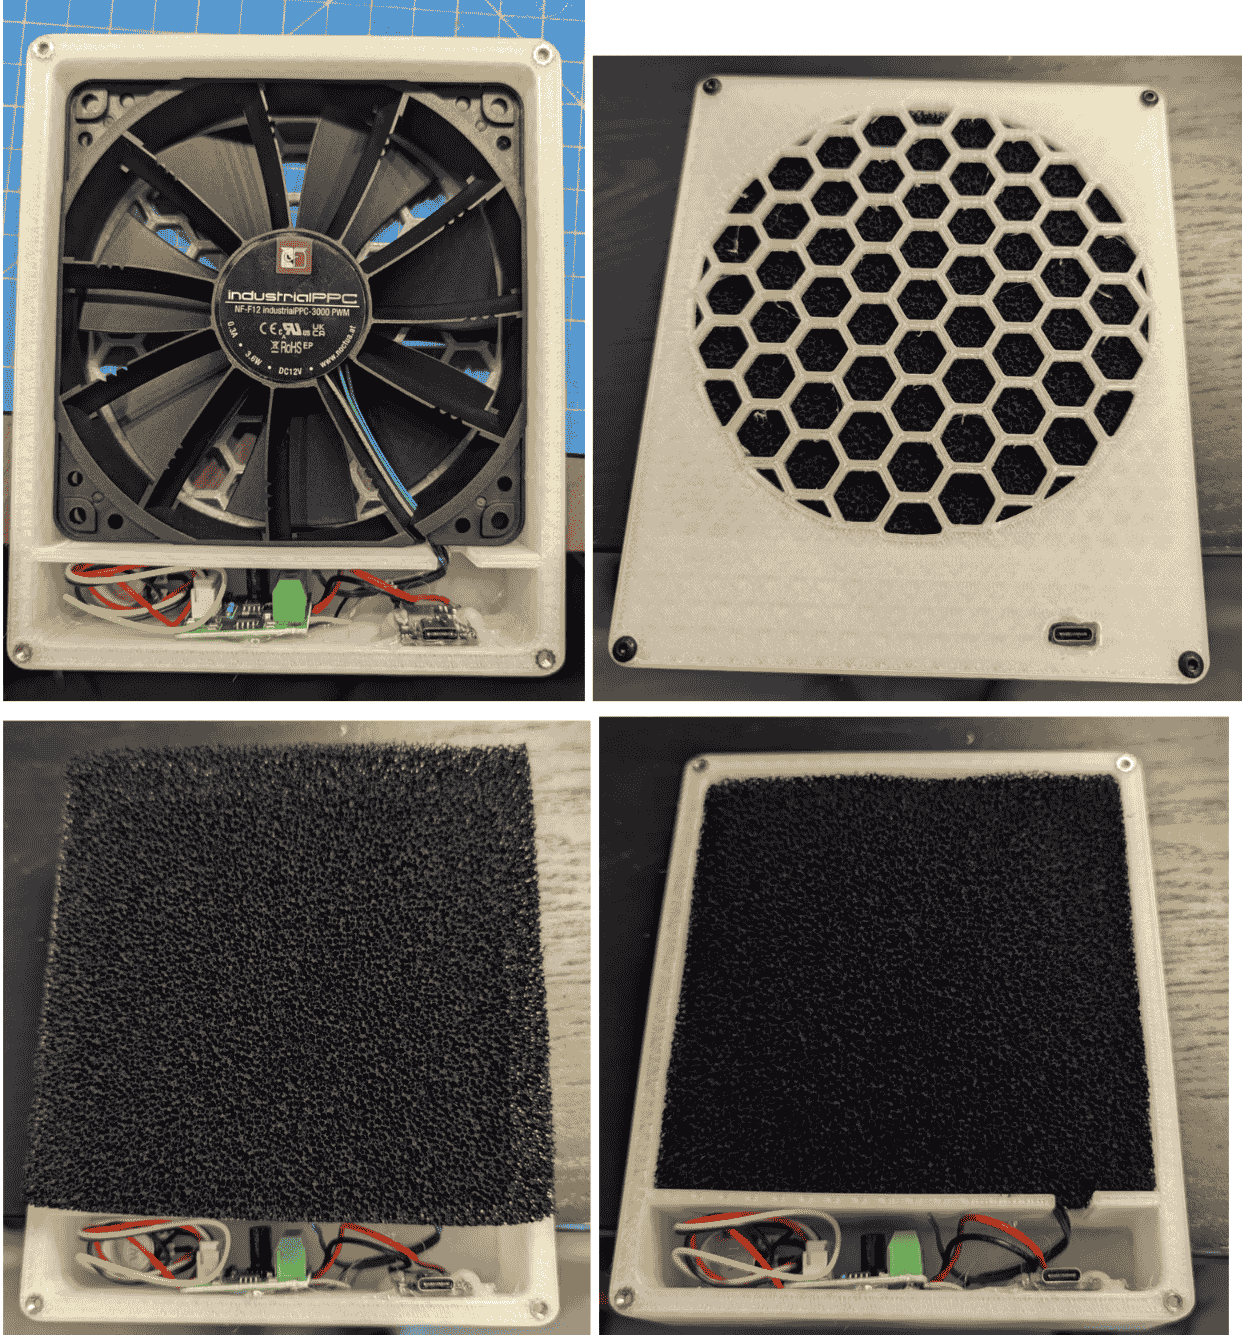
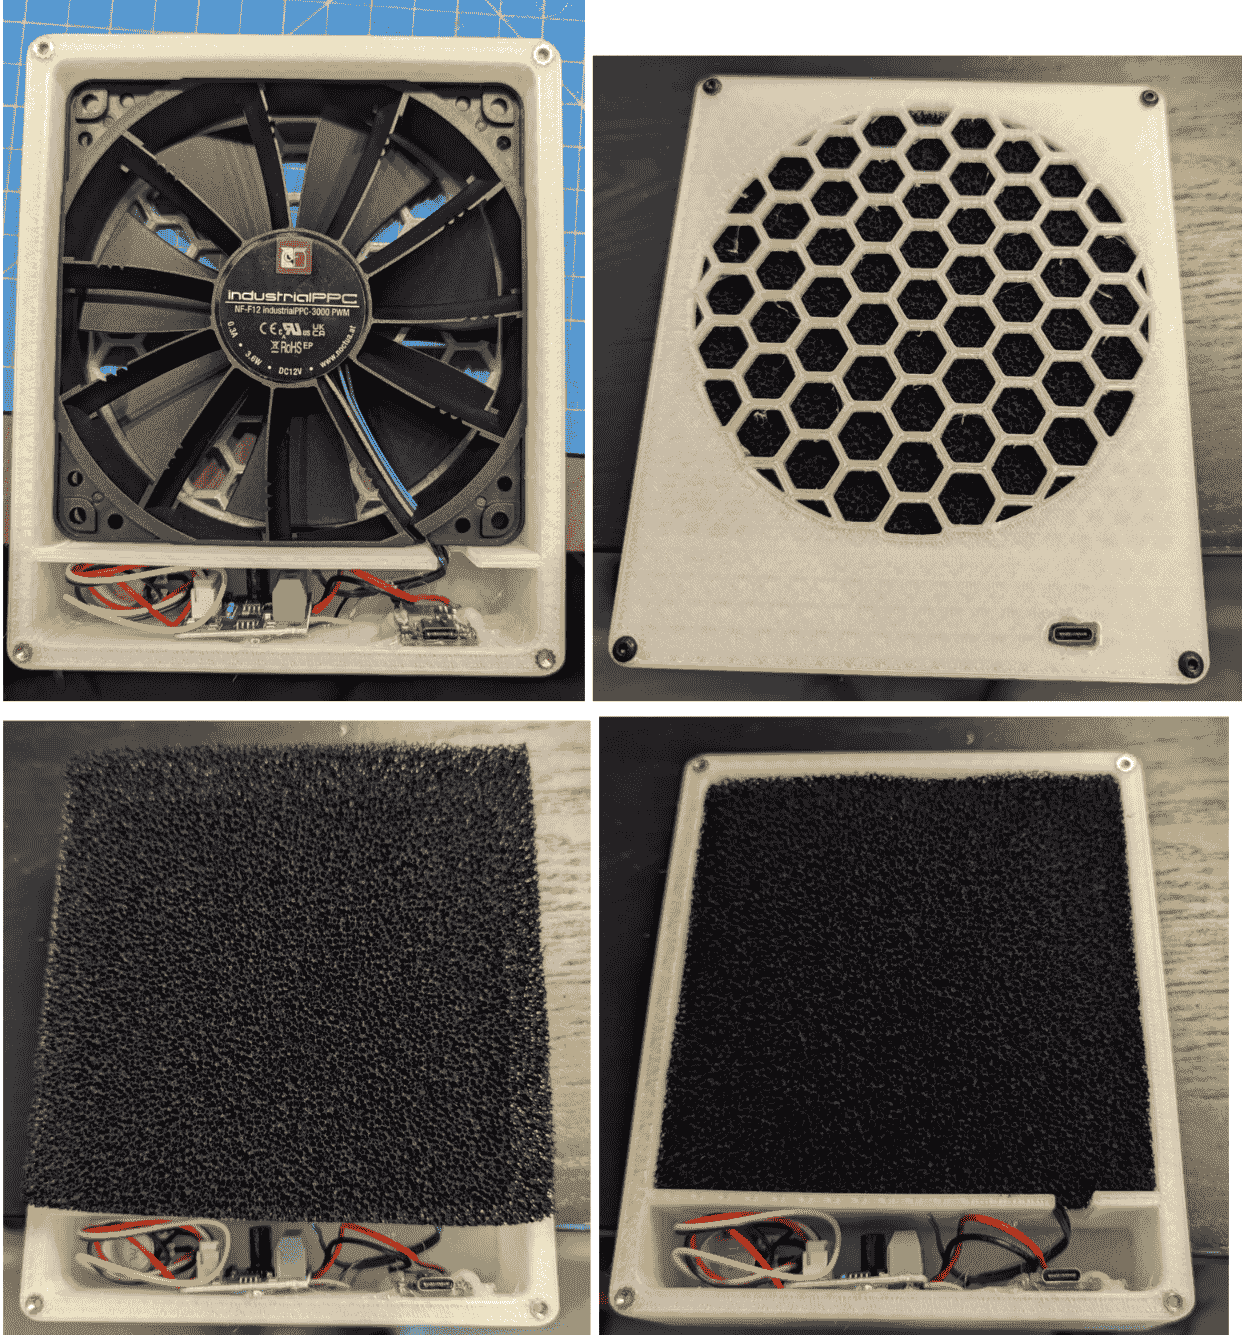
blog update

diff --git a/content/post/soldering-fan.md b/content/post/soldering-fan.md
@@ -3,18 +3,11 @@ title = 'DIY Soldering Fan'
 date = 2025-06-17T15:43:33-07:00
 draft = false
 +++
+![solering fan](/img/post/soldering-fan/thumb.png)
 
-![final-ish product](/img/post/soldering-fan/thumb.png)
+<iframe src="https://www.printables.com/embed/1331050" width="640" height="190" scrolling="no" frameborder="0"></iframe>
 
-**Tldr:** build a small usb-c power fan to exhaust soldering fumes. Finished Model. [Inspiration](https://www.printables.com/@nathanmilton_2933646/collections/2435517).
-
-**Parts List:**  
-[PWM Controller](https://www.aliexpress.us/item/3256806846203226.html?spm=a2g0o.order_list.order_list_main.22.1ecd1802KBbPxW&gatewayAdapt=glo2usa) (PWM Motor Speed Controller Automatic DC Motor Regulator Control Module Low Voltage DC 1.8V to 15V 2A)  
-[Usb-c Charger 3s](https://www.aliexpress.us/item/3256804660406598.html?spm=a2g0o.order_list.order_list_main.37.1ecd1802KBbPxW&gatewayAdapt=glo2usa) (Type-C USB 2S/3S BMS 15W 8.4V 12.6V 1.5A Lithium Battery Charging Boost Module With Balanced Support Fast Charge With Indicator)  
-[Noctua 120mm 3000rpm Fan](https://a.co/d/hsGfntL)  
-[Filter](https://a.co/d/an24vOl) (Solder Extractor Filter Activated Carbon Replacement)  
-[Threaded Insert](https://a.co/d/hfyrOgr) (M3 x 4 x 5mm)  
-[Threaded Insert](https://a.co/d/g7HItRM) (1/4-20" x 6 x 8mm)
+**Tldr:** build a small usb-c power fan to exhaust soldering fumes.. [See finished model on Printables](https://www.printables.com/model/1331050-simple-soldering-fan-120mm-usb-c-powered) for parts list and brief assembly instructions as well as my print settings. [Inspiration](https://www.printables.com/@nathanmilton_2933646/collections/2435517)
 
 I needed a small battery powered fan for when I am soldering. I was inspired by a couple of different designs on Printables. 
 
@@ -37,4 +30,7 @@ The pictures of the finished product you see here are a different model from the
 ![final-ish assembly](/img/post/soldering-fan/4.png)
 
 Anyway this build was really fun to do and use a lot of different skills: soldering, modeling, and assembly. Thanks to all the designs on Printables that inspired me. Here is the [collection of models](https://www.printables.com/@nathanmilton_2933646/collections/2435517) that inspired me. 
+
+Edit 6/20/25
+I ended up doing a lot of extra prototyping to make something that I was comfortable uploading to Printables. The main issue I had to fix was with the usb-c power supply that I was using was unreliable and would just randomly cut out so I switched to this one (set to 12V) (that parts list has been updated with this one as well) and haven’t had any problems. A couple of small things that took a lot of adjustment to get right was the usb-c port and the hole for the notch of the pwm dial. I would think that I was done only to try a different usb-c cord and realize I needed to make the hole bigger. Like I mentioned earlier I added a hole on the side for a ¼-20” threaded insert and made the fan compartment larger to accommodate most any 120mm fan or a Noctua 120mm with the rubber still on the corners as well as holes for fan screws on the front. With all these changes I am ready to upload this model to printables and hope to see someone make it!
 
